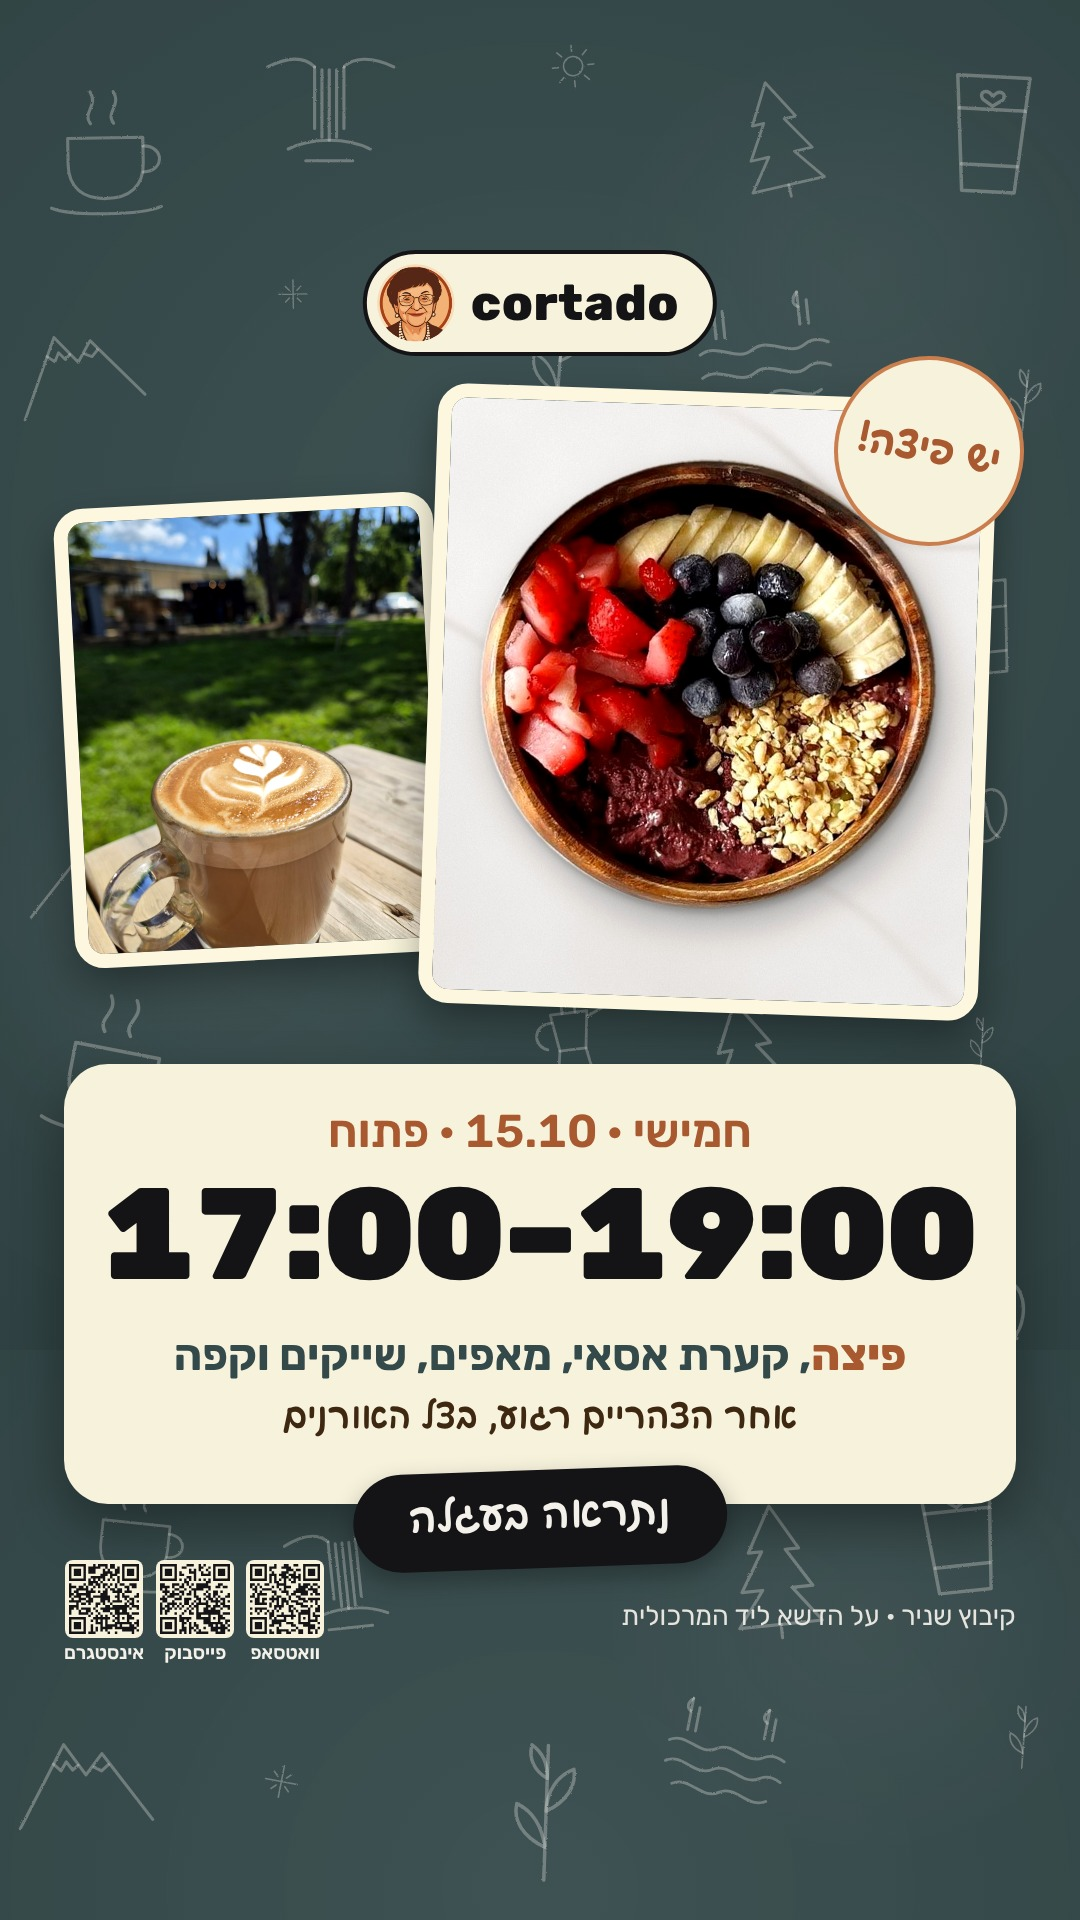
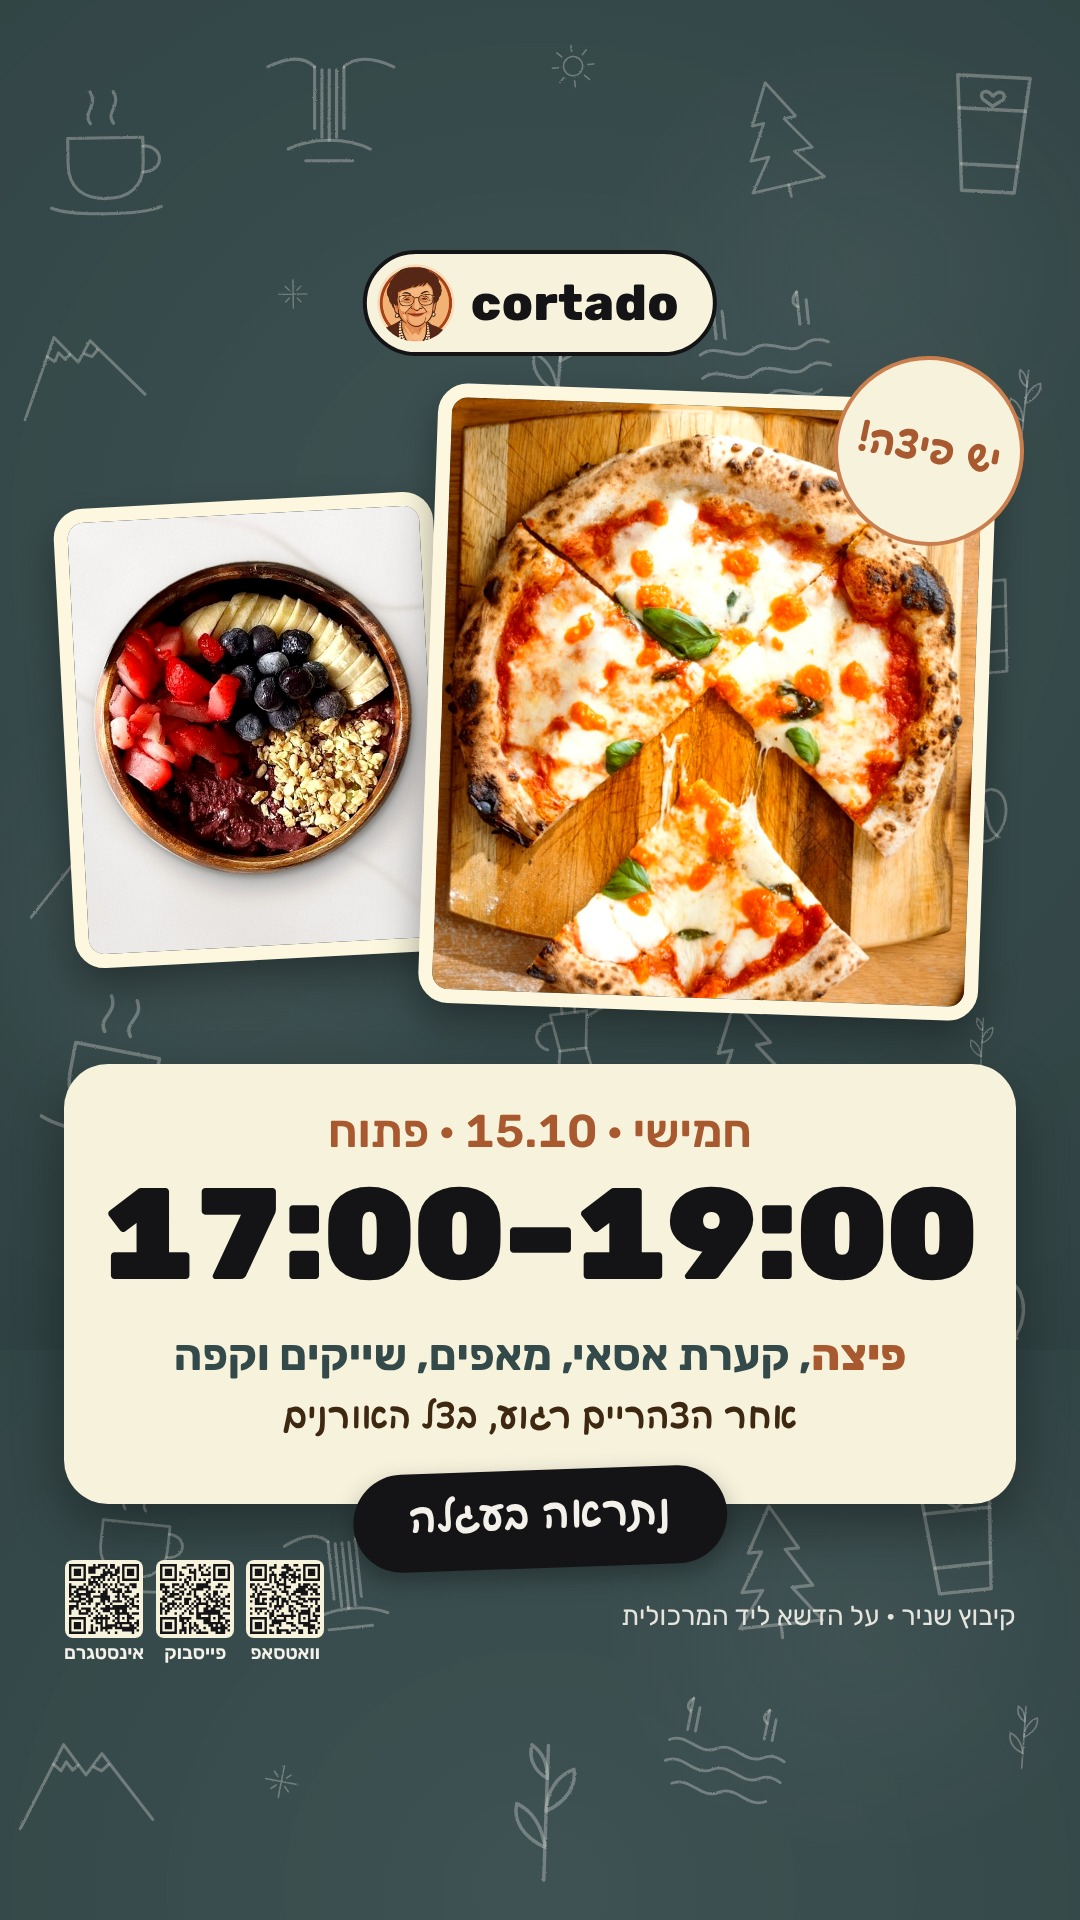
Owner's margherita photo is the pizza; back as the big photo on evening stories
Claude-Session: https://claude.ai/code/session_019QzmPdVBuLLW1qBPRqj2bP

Changed region(s): [[0.0611, 0.1875, 0.9167, 0.5312]]

diff --git a/toolkit/scripts/next_day_story.py b/toolkit/scripts/next_day_story.py
@@ -1,8 +1,8 @@
 """Build the data for the next-day story (template 56) and render it.
 
 Usage: python scripts/next_day_story.py --date 2026-10-12 --hours 17:00–19:00 [09:00–12:00 ...] --out DIR
-Evening day (a range ending 17:00 or later): two photos from two different categories
-(coffee → pastry → acai), "יש פיצה!" sticker and pizza first in the text, but no pizza photo. Morning-only day: the rotating photo is big, the sandwich small, no pizza.
+Evening day (a range ending 17:00 or later): the pizza is the big photo, the small one
+rotates coffee → pastry → acai. Morning-only day: the rotating photo is big, the sandwich small, no pizza.
 The rotation state lives in story-rotation.json next to this toolkit, so commit it after a run.
 """
 import argparse, datetime, json, pathlib, subprocess, sys
@@ -14,11 +14,12 @@ STATE = ROOT / "story-rotation.json"
 # Only photos that sit well next to the pizza: warm wood, daylight, food as the subject
 # (owner, 10.10.2026: "the photos must look very beautiful together"). Left out on purpose:
 # coffee-4 (green barrel, soft), coffee-5 (dark, hand), hero (mostly the cart), pastry-3 and
-# pastry-5 (busy backgrounds), pizza.jpg (blurry).
+# pastry-5 (busy backgrounds). (pizza.jpg was replaced by the owner's photo on 10.10.2026.)
 POOLS = {
     "coffee": ["cortado-lawn.jpg", "coffee-2.jpg", "coffee-3.jpg"],
     "pastry": ["pastry-2.jpg", "pastry-4.jpg", "pastry-3.jpg"],  # pastry-tray: owner said not for publishing (10.10.2026)
     "acai": ["acai.jpg"],  # the owner's one bowl photo (10.10.2026)
+    "pizza": ["pizza.jpg"],  # the owner's margherita photo (10.10.2026), cropped above the hand
 }
 CATS = ["coffee", "pastry", "acai"]
 DAYS = ["שני", "שלישי", "רביעי", "חמישי", "שישי", "שבת", "ראשון"]  # date.weekday() order
@@ -40,9 +41,7 @@ def story(date, ranges, state):
     evening = max(ends) >= 17
     s = {"day": DAYS[date.weekday()], "date": f"{date.day}.{date.month}", "hours": ranges}
     if evening:
-        # owner 10.10.2026: no pizza photo; pizza stays in the sticker and the text
-        other = CATS[(CATS.index(cat) + 1) % len(CATS)]
-        s.update(main=pick, second=take(state, other), sticker="יש פיצה!",
+        s.update(main=take(state, "pizza"), second=pick, sticker="יש פיצה!",
                  sub="<b>פיצה</b>, קערת אסאי, מאפים, שייקים וקפה")
     else:
         s.update(main=pick, second="sandwich.jpg", sub="קפה, כריכים, מאפים ושייקים")
@@ -74,9 +73,8 @@ def main():
 if __name__ == "__main__":
     # self-check: categories turn, photos inside a category turn, no photo repeats early
     st, d = {}, datetime.date(2026, 10, 12)
-    seen = [story(d, ["17:00–19:00"], st) for _ in range(3)]
-    assert [x["main"] for x in seen] == ["cortado-lawn.jpg", "pastry-4.jpg", "acai.jpg"], seen
-    assert [x["second"] for x in seen] == ["pastry-2.jpg", "acai.jpg", "coffee-2.jpg"], seen
-    assert all("pizza" not in x["main"] + x["second"] for x in seen)
+    seen = [story(d, ["17:00–19:00"], st) for _ in range(4)]
+    assert all(x["main"] == "pizza.jpg" for x in seen), seen
+    assert [x["second"] for x in seen] == ["cortado-lawn.jpg", "pastry-2.jpg", "acai.jpg", "coffee-2.jpg"], seen
     assert all((ROOT / "assets/photos" / f).exists() for v in POOLS.values() for f in v)
     main()

diff --git a/toolkit/SKILL.md b/toolkit/SKILL.md
@@ -193,4 +193,4 @@ Name it `NN-name.html`.
 
 ## Not for publishing (owner, 10.10.2026)
 - `pastry-tray.jpg` (tray with iced coffee, muffin, cheese pastry, croissant): do not use in anything published.
-- Pizza photos (`pizza.jpg`, `pizza-2.jpg`): the next-day stories carry no pizza photo; pizza is named in the text and the sticker only.
+- `pizza.jpg` is the owner's margherita photo from 10.10.2026, cropped above the hand. It is the only pizza image; the old olive pizza and the board photo with the woman are gone.
